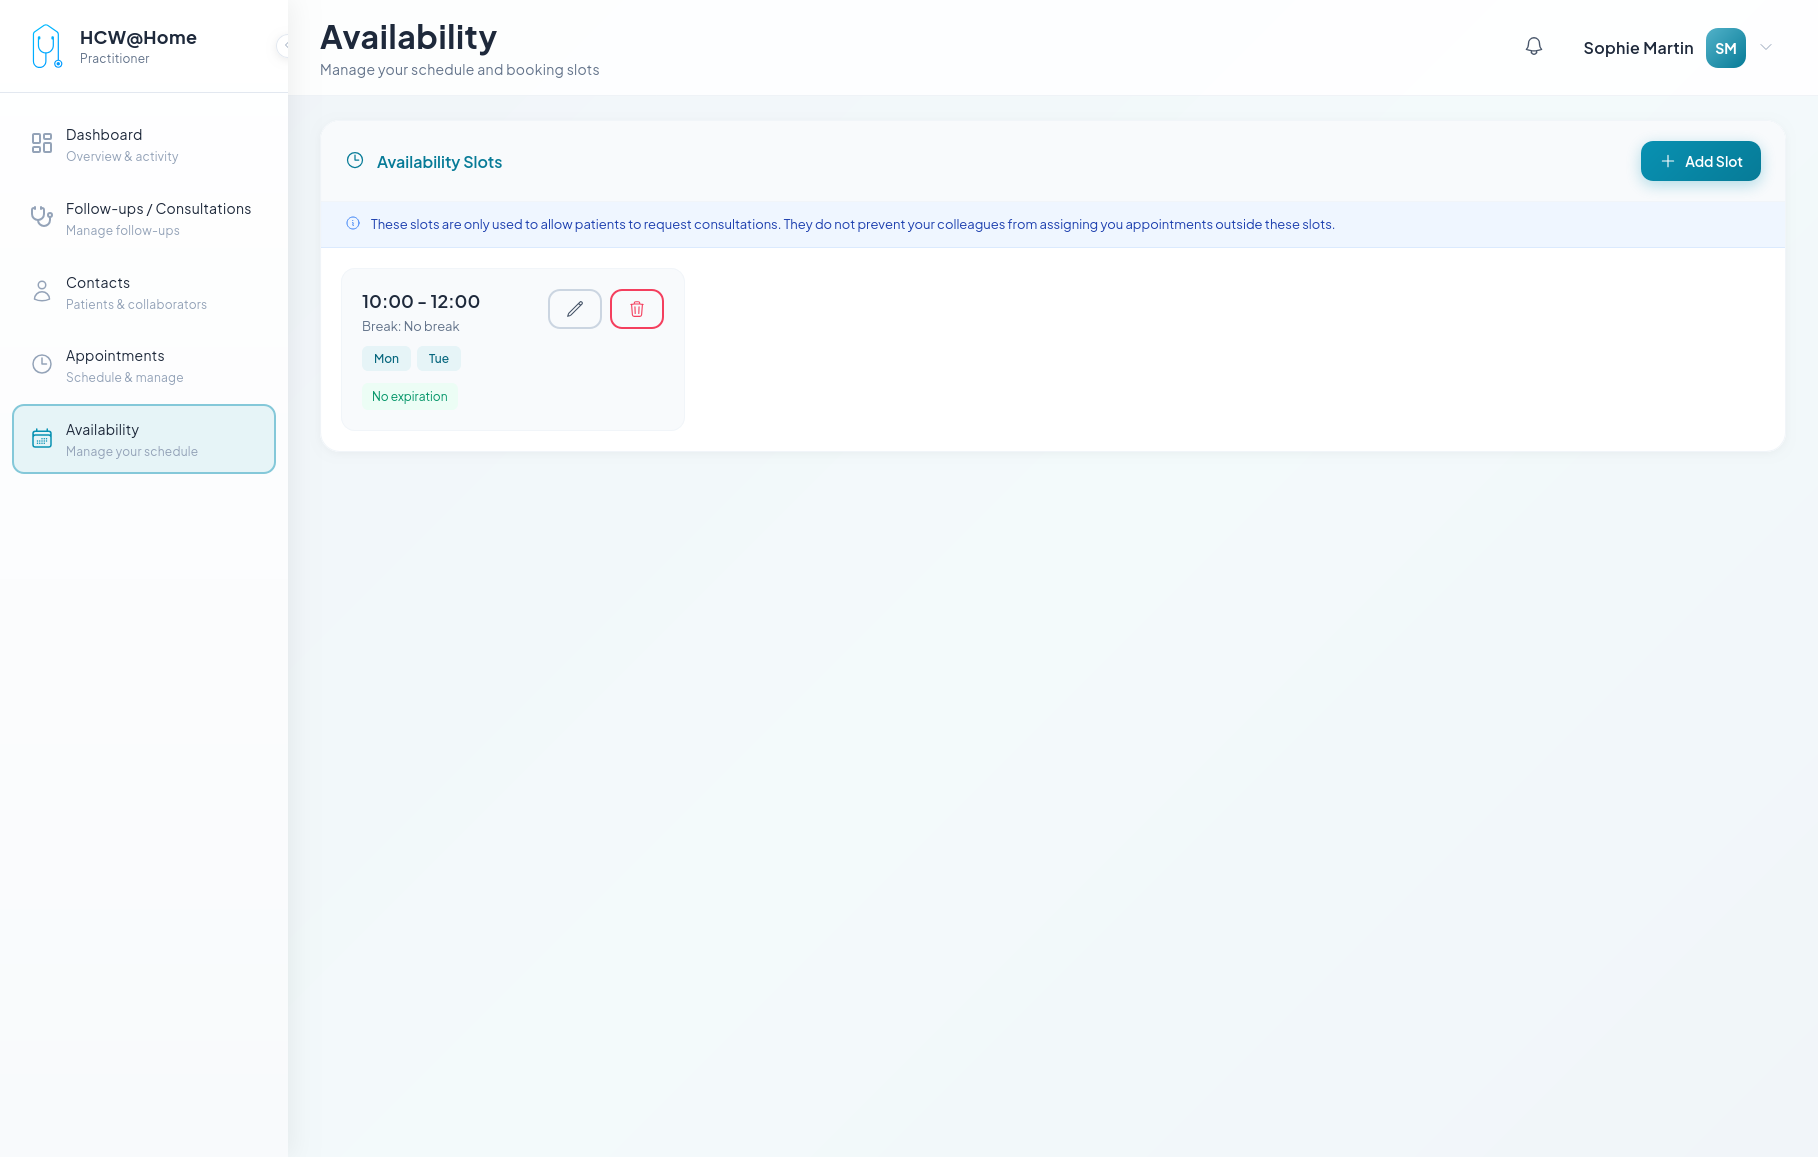
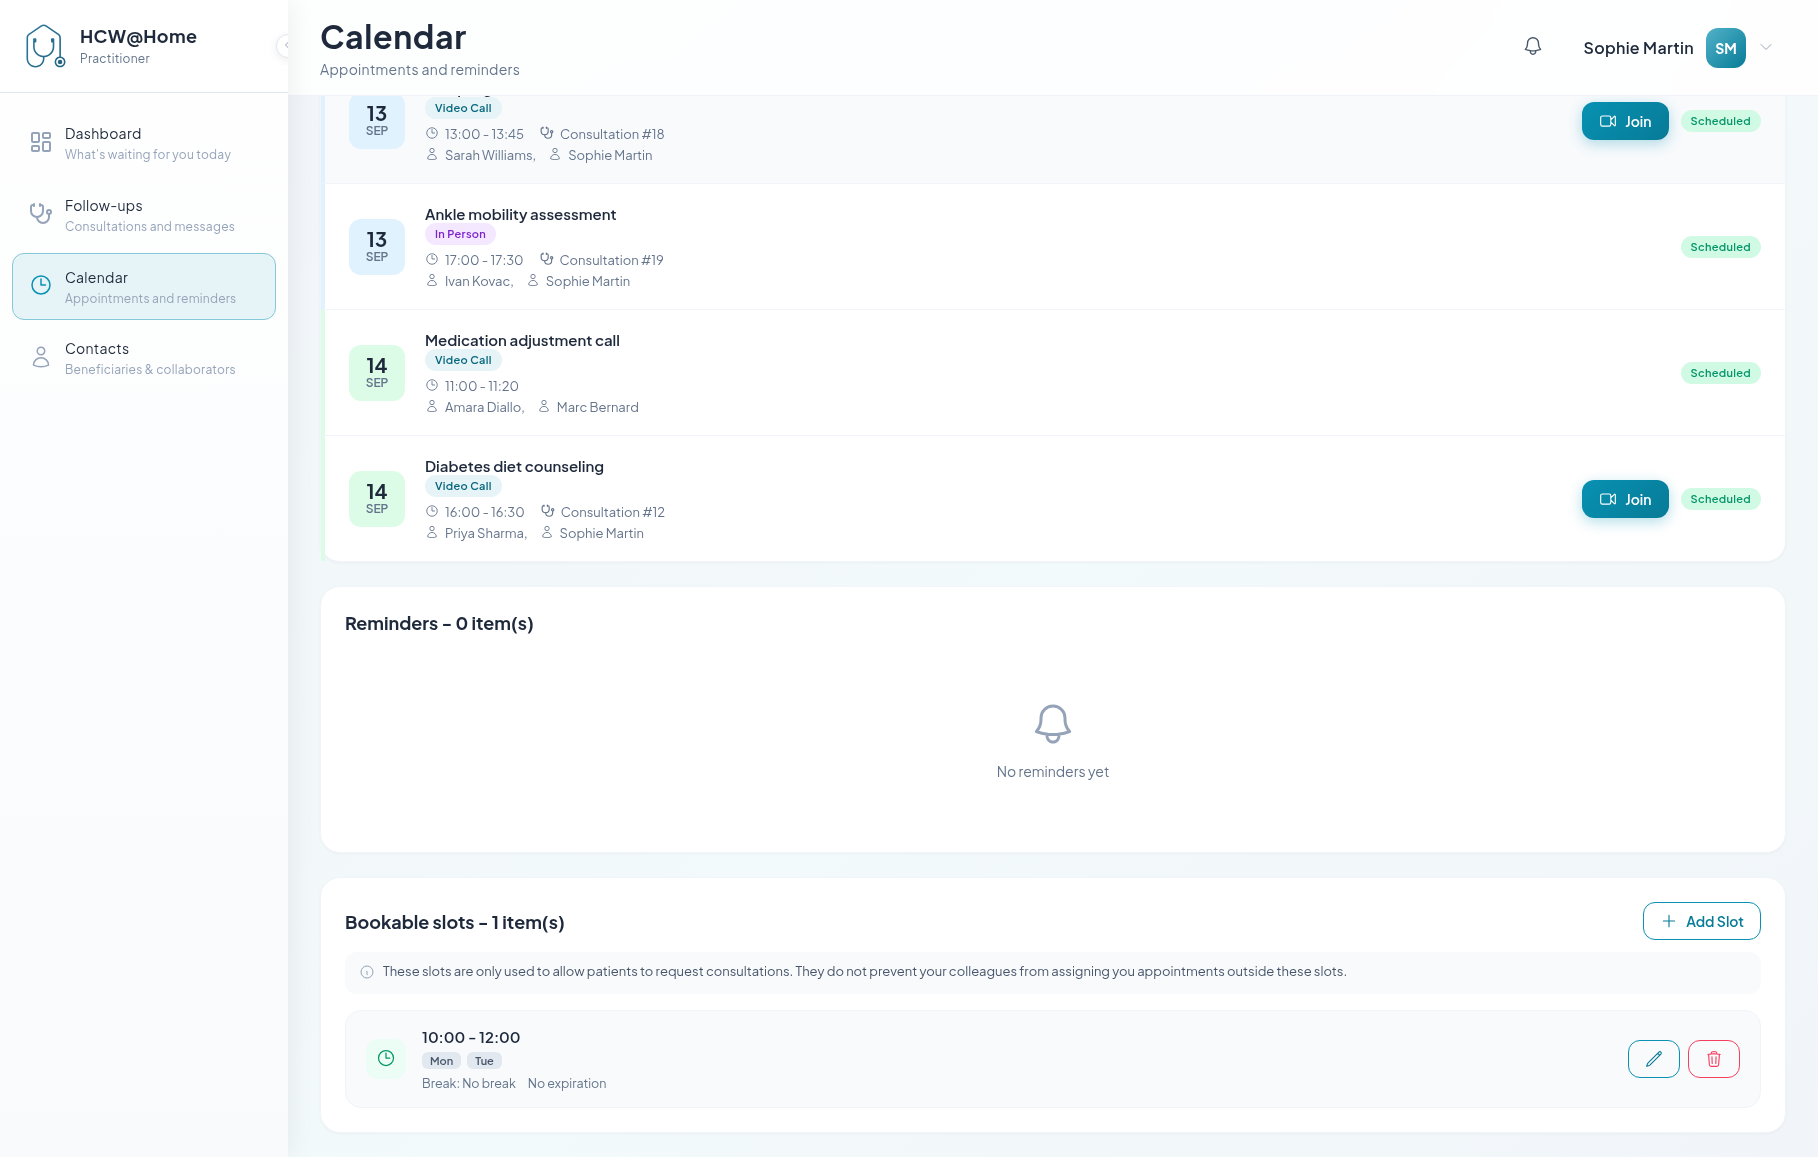
Update screenshot

diff --git a/docs/docs/use-cases/slot-booking.md b/docs/docs/use-cases/slot-booking.md
@@ -12,10 +12,15 @@ Practitioners define their availability so that appointments can be booked on op
 
 **Features used:** availability management, booking slots, calendar integration.
 
-![Availability list](../assets/images/practitioner-availability-list.png)
+Bookable slots are managed from the **Calendar** menu: they are listed in the
+list view, below the appointments and the reminders.
+
+![Bookable slots](../assets/images/practitioner-availability-list.png)
 
 ## Opening a Time Slot
 
-The practitioner can open specific time slots for booking, defining the duration and type of appointment accepted.
+The practitioner opens a slot from the arrow next to **+ New Appointment**, then
+**New bookable slot**: start and end time, an optional break, the working days
+it applies to, and an optional expiry date.
 
 ![Open time slot](../assets/images/practitioner-open-timeslot.png)
